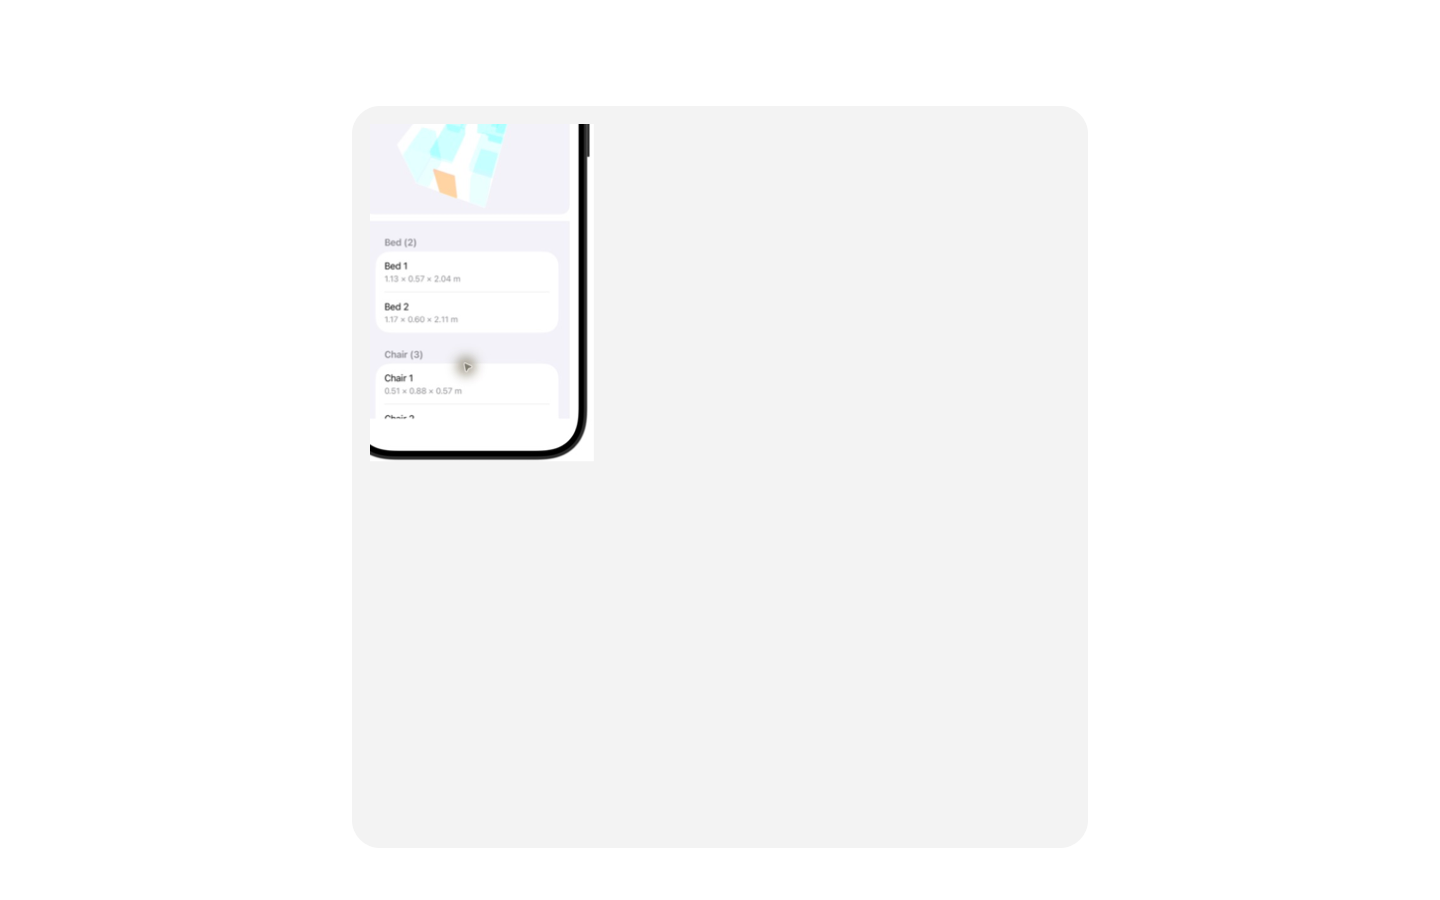
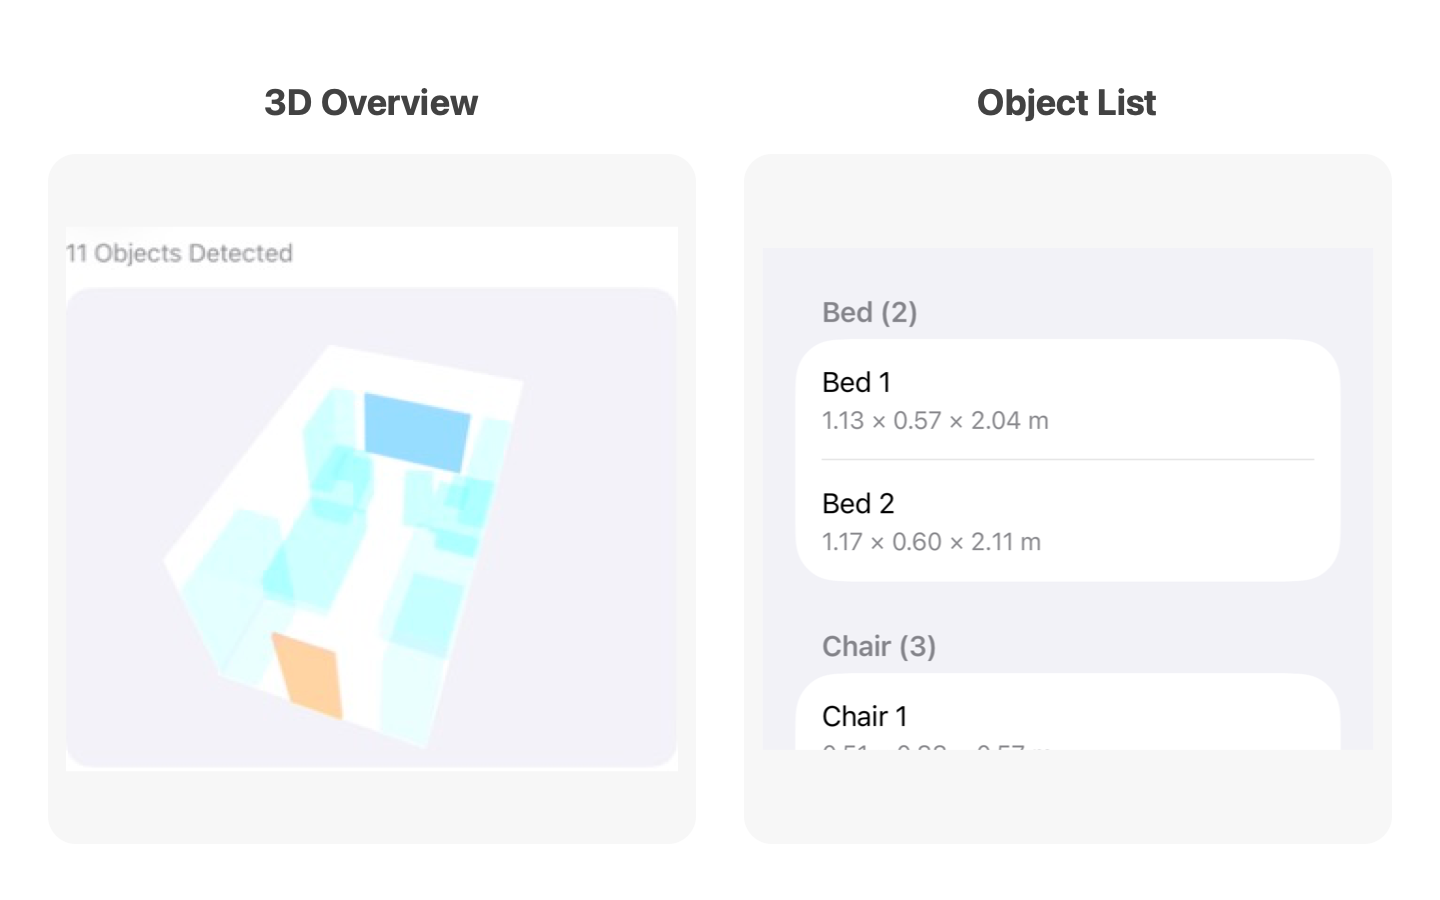
Polish DocC layout and result previews

diff --git a/scripts/compose_preview_images.swift b/scripts/compose_preview_images.swift
@@ -1,0 +1,244 @@
+#!/usr/bin/env swift
+
+import AppKit
+import Foundation
+
+// Deterministically composes DocC result previews from verified Simulator captures.
+// It only crops and uniformly scales source pixels; it never retouches UI content.
+
+private struct TopLeftRect {
+    let x: CGFloat
+    let y: CGFloat
+    let width: CGFloat
+    let height: CGFloat
+}
+
+private enum ScalingMode {
+    case fit
+    case fill
+}
+
+private struct Crop {
+    let sourceName: String
+    let rect: TopLeftRect
+    let scalingMode: ScalingMode
+}
+
+private struct Preview {
+    let outputName: String
+    let left: Crop
+    let right: Crop
+}
+
+private let canvasSize = NSSize(width: 1440, height: 900)
+private let panelTopLeftRects = [
+    TopLeftRect(x: 48, y: 154, width: 648, height: 690),
+    TopLeftRect(x: 744, y: 154, width: 648, height: 690)
+]
+
+private let previews = [
+    Preview(
+        outputName: "v6-section1-sample-loaded.png",
+        left: Crop(
+            sourceName: "01-sample-room-loaded.png",
+            rect: TopLeftRect(x: 39, y: 185, width: 326, height: 290),
+            scalingMode: .fit
+        ),
+        right: Crop(
+            sourceName: "01-sample-room-loaded.png",
+            rect: TopLeftRect(x: 39, y: 485, width: 326, height: 165),
+            scalingMode: .fill
+        )
+    ),
+    Preview(
+        outputName: "v6-section3-object-selected.png",
+        left: Crop(
+            sourceName: "03-chair2-selected.png",
+            rect: TopLeftRect(x: 39, y: 185, width: 326, height: 290),
+            scalingMode: .fit
+        ),
+        right: Crop(
+            sourceName: "04-chair2-highlight.png",
+            rect: TopLeftRect(x: 75, y: 1380, width: 1056, height: 805),
+            scalingMode: .fit
+        )
+    ),
+    Preview(
+        outputName: "v6-section4-all-boxes.png",
+        left: Crop(
+            sourceName: "04-all-boxes.png",
+            rect: TopLeftRect(x: 39, y: 185, width: 326, height: 290),
+            scalingMode: .fit
+        ),
+        right: Crop(
+            sourceName: "02-objects-detected.png",
+            rect: TopLeftRect(x: 48, y: 1380, width: 1110, height: 910),
+            scalingMode: .fit
+        )
+    ),
+    Preview(
+        outputName: "v6-section4-highlight.png",
+        left: Crop(
+            sourceName: "04-chair2-highlight.png",
+            rect: TopLeftRect(x: 48, y: 360, width: 1110, height: 1000),
+            scalingMode: .fit
+        ),
+        right: Crop(
+            sourceName: "04-chair2-highlight.png",
+            rect: TopLeftRect(x: 48, y: 1380, width: 1110, height: 800),
+            scalingMode: .fit
+        )
+    )
+]
+
+private func bottomLeftRect(from rect: TopLeftRect, in height: CGFloat) -> NSRect {
+    NSRect(x: rect.x, y: height - rect.y - rect.height, width: rect.width, height: rect.height)
+}
+
+private func loadImage(at url: URL) throws -> NSImage {
+    guard let image = NSImage(contentsOf: url) else {
+        throw NSError(
+            domain: "PreviewComposer",
+            code: 1,
+            userInfo: [NSLocalizedDescriptionKey: "Unable to load image at \(url.path)"]
+        )
+    }
+    return image
+}
+
+private func draw(_ crop: Crop, sourceRoot: URL, in target: TopLeftRect) throws {
+    let image = try loadImage(at: sourceRoot.appendingPathComponent(crop.sourceName))
+    let sourceRect = bottomLeftRect(from: crop.rect, in: image.size.height)
+    let targetRect = bottomLeftRect(from: target, in: canvasSize.height)
+
+    let widthScale = targetRect.width / sourceRect.width
+    let heightScale = targetRect.height / sourceRect.height
+    let scale: CGFloat
+    switch crop.scalingMode {
+    case .fit:
+        scale = min(widthScale, heightScale)
+    case .fill:
+        scale = max(widthScale, heightScale)
+    }
+
+    let drawSize = NSSize(width: sourceRect.width * scale, height: sourceRect.height * scale)
+    let drawRect = NSRect(
+        x: targetRect.midX - drawSize.width / 2,
+        y: targetRect.midY - drawSize.height / 2,
+        width: drawSize.width,
+        height: drawSize.height
+    )
+
+    NSGraphicsContext.current?.saveGraphicsState()
+    NSBezierPath(roundedRect: targetRect, xRadius: 28, yRadius: 28).addClip()
+    image.draw(
+        in: drawRect,
+        from: sourceRect,
+        operation: .copy,
+        fraction: 1,
+        respectFlipped: true,
+        hints: [.interpolation: NSImageInterpolation.high]
+    )
+    NSGraphicsContext.current?.restoreGraphicsState()
+}
+
+private func drawCenteredTitle(_ title: String, above panel: TopLeftRect) {
+    let attributes: [NSAttributedString.Key: Any] = [
+        .font: NSFont.systemFont(ofSize: 36, weight: .bold),
+        .foregroundColor: NSColor(calibratedWhite: 0.20, alpha: 1)
+    ]
+    let attributedTitle = NSAttributedString(string: title, attributes: attributes)
+    let size = attributedTitle.size()
+    let topLeft = TopLeftRect(
+        x: panel.x + (panel.width - size.width) / 2,
+        y: 80,
+        width: size.width,
+        height: size.height
+    )
+    attributedTitle.draw(in: bottomLeftRect(from: topLeft, in: canvasSize.height))
+}
+
+private func compose(_ preview: Preview, sourceRoot: URL, outputRoot: URL) throws {
+    guard let bitmap = NSBitmapImageRep(
+        bitmapDataPlanes: nil,
+        pixelsWide: Int(canvasSize.width),
+        pixelsHigh: Int(canvasSize.height),
+        bitsPerSample: 8,
+        samplesPerPixel: 4,
+        hasAlpha: true,
+        isPlanar: false,
+        colorSpaceName: .deviceRGB,
+        bytesPerRow: 0,
+        bitsPerPixel: 0
+    ) else {
+        throw NSError(
+            domain: "PreviewComposer",
+            code: 2,
+            userInfo: [NSLocalizedDescriptionKey: "Unable to create output bitmap"]
+        )
+    }
+
+    guard let context = NSGraphicsContext(bitmapImageRep: bitmap) else {
+        throw NSError(
+            domain: "PreviewComposer",
+            code: 3,
+            userInfo: [NSLocalizedDescriptionKey: "Unable to create graphics context"]
+        )
+    }
+
+    NSGraphicsContext.saveGraphicsState()
+    NSGraphicsContext.current = context
+    context.imageInterpolation = .high
+
+    NSColor.white.setFill()
+    NSRect(origin: .zero, size: canvasSize).fill()
+
+    for panel in panelTopLeftRects {
+        let rect = bottomLeftRect(from: panel, in: canvasSize.height)
+        NSColor(calibratedWhite: 0.96, alpha: 1).setFill()
+        NSBezierPath(roundedRect: rect, xRadius: 28, yRadius: 28).fill()
+    }
+
+    drawCenteredTitle("3D Overview", above: panelTopLeftRects[0])
+    drawCenteredTitle("Object List", above: panelTopLeftRects[1])
+
+    let contentRects = panelTopLeftRects.map {
+        TopLeftRect(x: $0.x + 18, y: $0.y + 18, width: $0.width - 36, height: $0.height - 36)
+    }
+    try draw(preview.left, sourceRoot: sourceRoot, in: contentRects[0])
+    try draw(preview.right, sourceRoot: sourceRoot, in: contentRects[1])
+
+    NSGraphicsContext.restoreGraphicsState()
+
+    guard let data = bitmap.representation(using: .png, properties: [:]) else {
+        throw NSError(
+            domain: "PreviewComposer",
+            code: 4,
+            userInfo: [NSLocalizedDescriptionKey: "Unable to encode output PNG"]
+        )
+    }
+
+    try FileManager.default.createDirectory(at: outputRoot, withIntermediateDirectories: true)
+    try data.write(to: outputRoot.appendingPathComponent(preview.outputName), options: .atomic)
+}
+
+private let arguments = CommandLine.arguments
+guard arguments.count == 3 else {
+    FileHandle.standardError.write(
+        Data("Usage: swift scripts/compose_preview_images.swift SOURCE_EVIDENCE_DIR OUTPUT_IMAGES_DIR\n".utf8)
+    )
+    exit(64)
+}
+
+let sourceRoot = URL(fileURLWithPath: arguments[1], isDirectory: true)
+let outputRoot = URL(fileURLWithPath: arguments[2], isDirectory: true)
+
+do {
+    for preview in previews {
+        try compose(preview, sourceRoot: sourceRoot, outputRoot: outputRoot)
+        print("Wrote \(outputRoot.appendingPathComponent(preview.outputName).path)")
+    }
+} catch {
+    FileHandle.standardError.write(Data("Preview composition failed: \(error)\n".utf8))
+    exit(1)
+}

diff --git a/DOC_C_SCREENSHOT_PLAN.md b/DOC_C_SCREENSHOT_PLAN.md
@@ -38,6 +38,36 @@
 
 원본은 전용 iPhone 17 Pro / iOS 26.5 Simulator의 실제 v2.6 product에서 캡처했다. 상태바와 Dynamic Island를 제거하고 비율을 늘이지 않은 채 흰색 1440 × 900 또는 1440 × 820 가로 캔버스에 배치했다. 교체와 회전 이미지는 전후를 같은 크기로 나란히 비교한다.
 
+### Section 1 / 3 / 4 Preview 재현 규칙
+
+아래 네 장은 `scripts/compose_preview_images.swift`가 `TutorialStageEvidenceV25`의 실제 캡처를 crop하고 **가로·세로 비율을 유지한 채 균일하게 확대**해 만든다. 생성형 이미지, UI retouch, 글자 재작성, 비균일 stretch는 사용하지 않는다. Section 2의 정상 가로형 Preview와 마찬가지로 1440 × 900 흰 캔버스에서 `3D Overview`와 `Object List`를 나란히 보여준다.
+
+| Target resource | 실제 source state | Source capture | SHA-256 |
+| --- | --- | --- | --- |
[4 lines of base64/hex data omitted]
+
+Section 3 오른쪽 crop은 Stage 4 캡처의 **list 영역만** 사용한다. Stage 3의 framed 캡처는 선택된 `Chair 2` row를 화면 아래에서 잘라 버리기 때문이다. 이 crop에는 box나 Highlight, replacement button 같은 다음 단계 UI가 포함되지 않으며, Stage 3에서 이미 완성한 UUID selection/checkmark만 보인다. Section 4A의 오른쪽 crop도 Stage 2 이후 변하지 않은 category/dimensions list만 사용한다.
+
+재생성 명령은 DocC source repository root에서 다음과 같다.
+
+```sh
+swift scripts/compose_preview_images.swift \
+  ../TutorialStageEvidenceV25 \
+  RoomPlanExampleApp/RoomPlanObjectExplorer.docc/Resources/Images
+```
+
+Swift module cache 쓰기가 제한된 자동화 환경에서는 `SWIFT_MODULE_CACHE_PATH`와 `CLANG_MODULE_CACHE_PATH`를 writable temporary directory로 지정한다. 스크립트는 위 네 target만 덮어쓰며, 정상인 Section 2 / 5 / Bonus 이미지는 수정하지 않는다.
+
+직접 새 캡처로 교체할 때는 다음 두 방법 중 하나만 사용한다.
+
+1. **Source 교체 후 재생성:** 동일 checkpoint를 찍어 위 `TutorialStageEvidenceV25` source filename으로 교체하고 스크립트를 다시 실행한다. Simulator toolbar, device frame, iOS status bar는 crop 밖에 있어야 하며 mouse cursor가 결과 영역을 가리지 않아야 한다. 캡처 크기나 화면 배치가 달라졌다면 script의 해당 `TopLeftRect`를 실제 pixel 기준으로 함께 갱신한다.
+2. **완성 Preview drop-in:** 1440 × 900 PNG를 target resource와 정확히 같은 filename으로 `RoomPlanExampleApp/RoomPlanObjectExplorer.docc/Resources/Images/`에 넣는다. DocC source 수정 없이 같은 `@Code { @Image }` 연결을 유지할 수 있다.
+
+두 방법 모두 이전 Section에 다음 기능을 미리 보여주지 않고, status 문구·선택 row·box/Highlight 상태가 표의 source state와 정확히 일치해야 한다. 출력물을 먼저 직접 열어 빈 여백, 잘못된 crop, 글자/geometry 변형이 없는지 확인한 뒤 DocC Preview를 검증한다.
+
 ## 검증 기준
 
 1. 각 이미지의 MARK, 함수명, status와 control이 해당 Section snapshot과 일치하는가?

diff --git a/DOC_C_DEPLOYMENT.md b/DOC_C_DEPLOYMENT.md
@@ -335,4 +335,4 @@ release asset:
 
 첫 hotfix는 static HTML의 `data-color-scheme`을 light로 고정했지만, DocC Overview가 light mode에서도 별도의 검정 `tutorials-overview` 색상 변수를 사용한다는 점을 놓쳤다. 2026-08-19 공개 URL을 다시 확인한 결과 `bodyColorScheme=light`이어도 Overview body background은 `rgb(0, 0, 0)`으로 남아 있었다.
 
-현재 local 수정본은 `prepare_pages_archive.sh`가 DocC client보다 먼저 light preference를 설정하고, Overview·Tutorial Hero 색상 변수를 흰 배경과 어두운 글자로 override한다. Overview Intro도 필수 학습 흐름·요구 경험·다운로드 링크만 남겨 세로 길이를 줄였다. 이 수정은 Xcode `docbuild`와 138개 static index 변환·guard 검증을 통과했지만 아직 GitHub Pages에 push하지 않았다. 공개 URL은 배포 후 별도로 다시 검증해야 한다.
+현재 source의 `prepare_pages_archive.sh`는 DocC client보다 먼저 light preference를 설정하고, Overview·Tutorial Hero 색상 변수를 흰 배경과 어두운 글자로 override한다. 1251px 이상에서는 Overview 본문을 왼쪽 정렬하고 한 개뿐인 chapter navigation을 숨겨 큰 모니터의 불필요한 중앙 여백을 줄이며, 1250px 이하와 일반 Tutorial page의 native layout은 유지한다. Further Exploration Article은 Main에 포함되지 않는 선택 자료이므로 source에서는 DocC가 요구하는 `time: 0`을 사용하고, static render data에서는 생성된 `0min` metadata를 제거해 Overview와 Main Tutorial 예상 시간을 모두 80분으로 맞춘다. 배포 전에는 Xcode `docbuild`, static index 변환·guard, 공개 URL을 다시 검증해야 한다.
